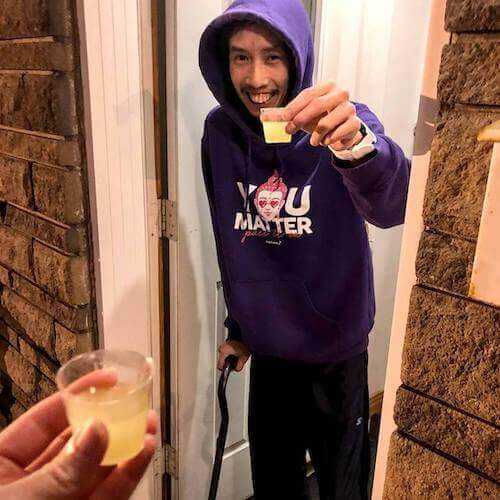
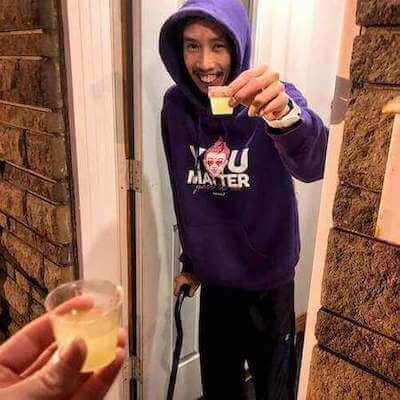
image optimization + google analytics async

diff --git a/vuepress/src/.vuepress/config.js b/vuepress/src/.vuepress/config.js
@@ -45,7 +45,7 @@ module.exports = {
       // Tracking code for longzero.com
       (function(i,s,o,g,r,a,m){i['GoogleAnalyticsObject']=r;i[r]=i[r]||function(){
       (i[r].q=i[r].q||[]).push(arguments)},i[r].l=1*new Date();a=s.createElement(o),
-      m=s.getElementsByTagName(o)[0];a.async=1;a.src=g;m.parentNode.insertBefore(a,m)
+      m=s.getElementsByTagName(o)[0];a.async=true;a.src=g;m.parentNode.insertBefore(a,m)
       })(window,document,'script','//www.google-analytics.com/analytics.js','ga');
       ga('create', 'UA-25351410-3', 'auto');
       ga('send', 'pageview');
